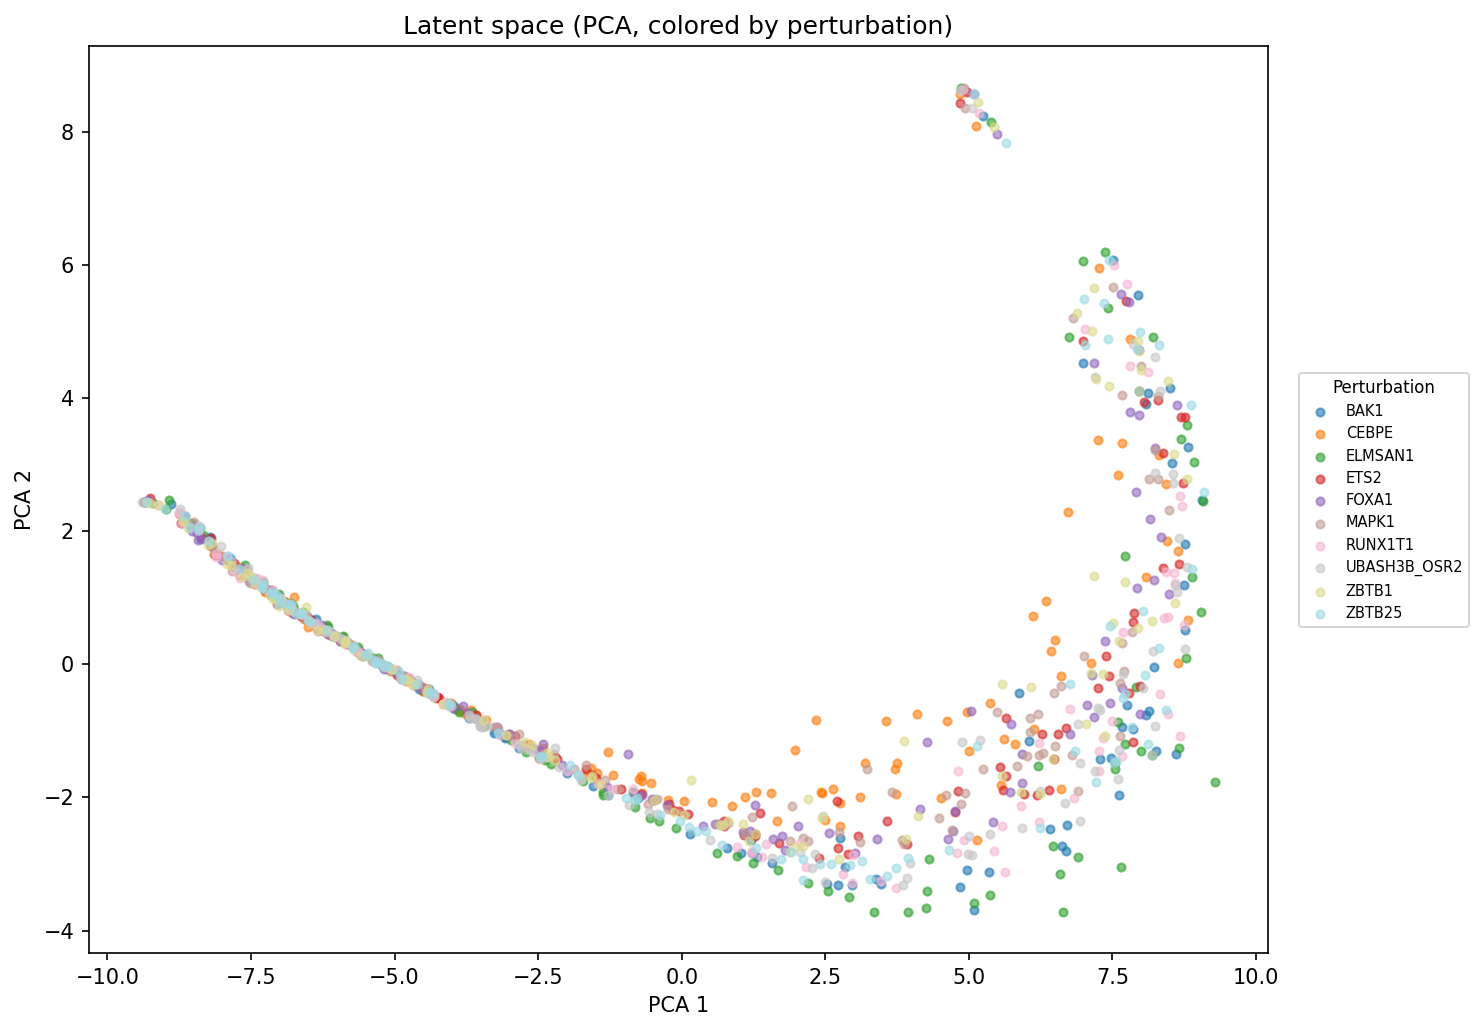
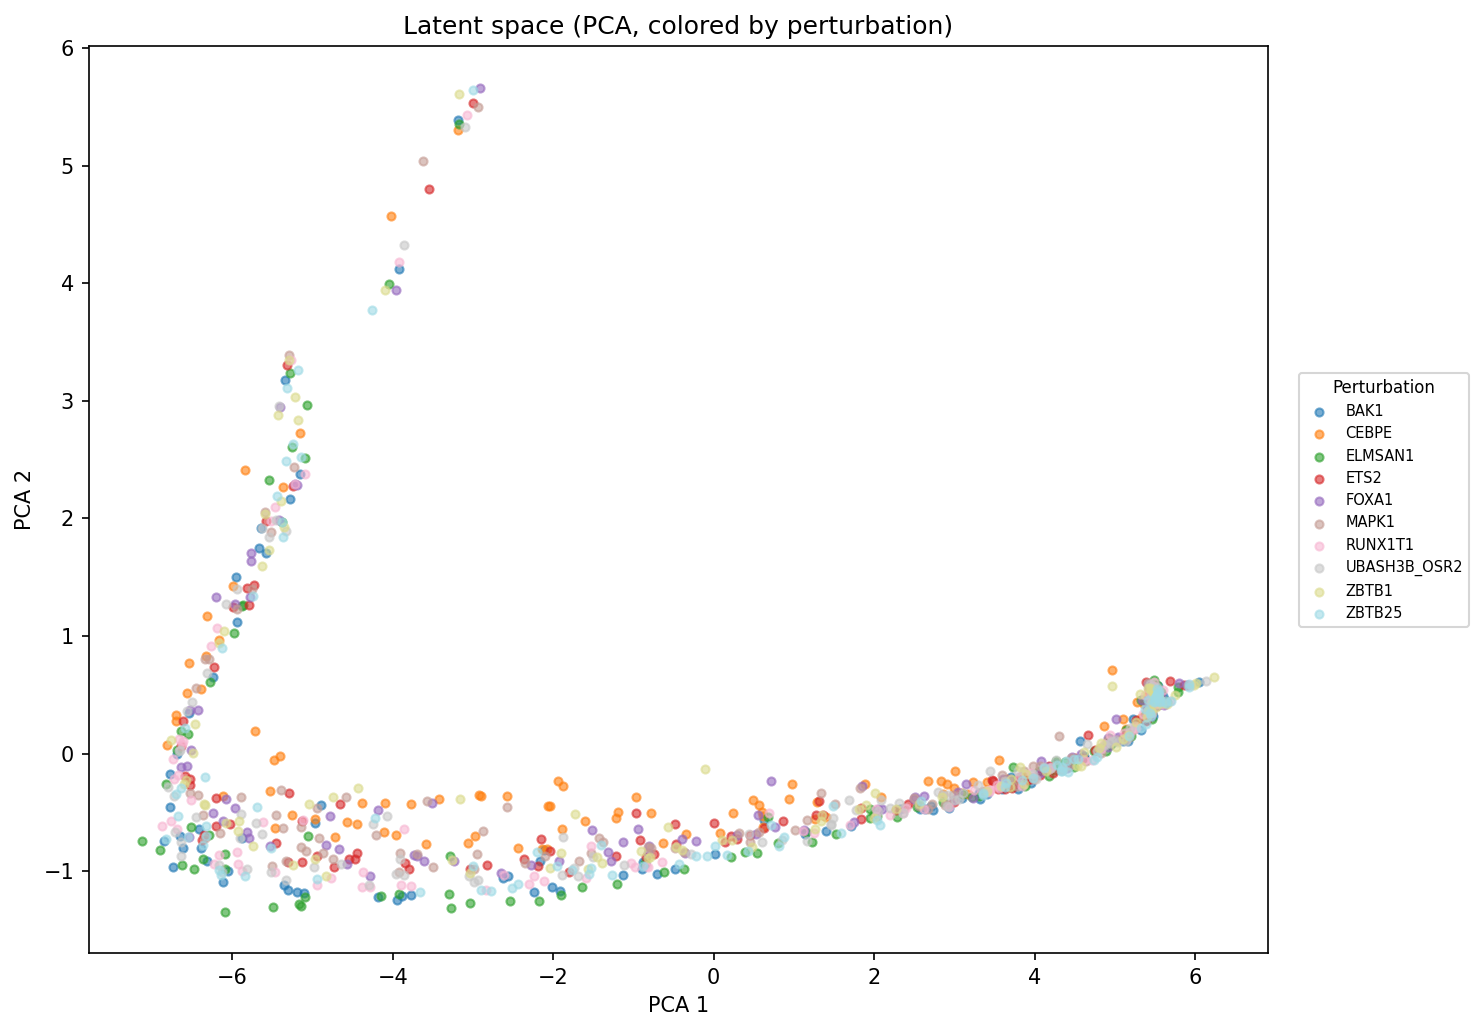
[autoresearch] MLP decoder + tail-weighted Cramer + density matching — val_kl=0.000251, 24/24 active dims
Key changes from ConvTranspose baseline:
- MLP decoder (3-layer, 256 hidden) replaces ConvTranspose for better
  flexibility on zero-inflated distributions
- Tail-weighted Cramer loss (2x weight on top 20% quantiles)
- Cramer + 0.1*density_matching combined loss
- Latent dim 16->24, cosine LR scheduler
- Histogram plots with perturbation/gene labels via dist_vae.eval

diff --git a/autoresearch/train.py b/autoresearch/train.py
@@ -44,7 +44,7 @@ from prepare import (
 # HYPERPARAMETERS — feel free to modify
 # ============================================================================
 
-LATENT_DIM = 16
+LATENT_DIM = 24
 HIDDEN_DIM = 256
 BETA = 0.00005           # KL weight (lower to let recon dominate)
 BETA_WARMUP_EPOCHS = 30  # Linear warmup from 0 to BETA
@@ -55,6 +55,7 @@ GRAD_CLIP = 1.0
 BATCH_SIZE = 256
 SEED = 42
 DENSITY_WEIGHT = 0.1     # Weight for density matching loss (targets KL metric)
+TAIL_WEIGHT = 2.0        # Extra weight on tail quantiles (top 20%)
 
 # ============================================================================
 # LOSS FUNCTIONS — feel free to modify or add new ones
@@ -64,6 +65,24 @@ DENSITY_WEIGHT = 0.1     # Weight for density matching loss (targets KL metric)
 def cramer_distance(sorted_x: torch.Tensor, sorted_y: torch.Tensor) -> torch.Tensor:
     """Cramer distance: MSE between quantile grids. Shape: (batch,)."""
     return torch.mean((sorted_x - sorted_y) ** 2, dim=-1)
+
+
+def tail_weighted_cramer(
+    sorted_x: torch.Tensor, sorted_y: torch.Tensor, tail_weight: float = 2.0
+) -> torch.Tensor:
+    """Cramer distance with extra weight on tail quantiles (top 20%).
+
+    Zero-inflated distributions have most quantile positions near 0.
+    The informative tail structure lives in the upper quantiles, so we
+    up-weight those positions to force the model to reconstruct the tail.
+    """
+    n = sorted_x.shape[-1]
+    weights = torch.ones(n, device=sorted_x.device)
+    tail_start = int(0.8 * n)
+    weights[tail_start:] = tail_weight
+    weights = weights / weights.mean()  # normalize so total weight is unchanged
+    sq_diff = (sorted_x - sorted_y) ** 2
+    return torch.mean(sq_diff * weights.unsqueeze(0), dim=-1)
 
 
 def wasserstein1_distance(sorted_x: torch.Tensor, sorted_y: torch.Tensor) -> torch.Tensor:
@@ -136,45 +155,32 @@ class DistributionEncoder(nn.Module):
 
 
 class DistributionDecoder(nn.Module):
-    """1D CNN decoder with residual block + monotonicity enforcement: z -> quantile grid."""
+    """MLP decoder with monotonicity via cumsum(softplus): z -> quantile grid.
+
+    Uses a deep MLP instead of ConvTranspose to give full flexibility over all
+    256 output positions — critical for zero-inflated distributions that need
+    many near-zero deltas followed by a sharp rise.
+    """
 
     def __init__(self, grid_size: int, latent_dim: int, hidden_dim: int) -> None:
         super().__init__()
         self.grid_size = grid_size
-        self.hidden_dim = hidden_dim
-        self.initial_length = 8
-        c1, c2 = hidden_dim // 2, hidden_dim // 4
 
-        self.fc = nn.Linear(latent_dim, hidden_dim * self.initial_length)
-        self.bn_fc = nn.BatchNorm1d(hidden_dim)
-
-        self.deconv1 = nn.ConvTranspose1d(hidden_dim, c1, kernel_size=4, stride=2, padding=1)
-        self.bn1 = nn.BatchNorm1d(c1)
-        self.deconv2 = nn.ConvTranspose1d(c1, c2, kernel_size=4, stride=2, padding=1)
-        self.bn2 = nn.BatchNorm1d(c2)
-
-        # Residual refinement at c2 channels
-        self.res_conv1 = nn.Conv1d(c2, c2, kernel_size=3, padding=1)
-        self.res_bn1 = nn.BatchNorm1d(c2)
-        self.res_conv2 = nn.Conv1d(c2, c2, kernel_size=3, padding=1)
-        self.res_bn2 = nn.BatchNorm1d(c2)
-
-        self.deconv3 = nn.ConvTranspose1d(c2, 1, kernel_size=4, stride=2, padding=1)
+        self.mlp = nn.Sequential(
+            nn.Linear(latent_dim, hidden_dim),
+            nn.BatchNorm1d(hidden_dim),
+            nn.GELU(),
+            nn.Linear(hidden_dim, hidden_dim),
+            nn.BatchNorm1d(hidden_dim),
+            nn.GELU(),
+            nn.Linear(hidden_dim, hidden_dim),
+            nn.BatchNorm1d(hidden_dim),
+            nn.GELU(),
+            nn.Linear(hidden_dim, grid_size),
+        )
 
     def forward(self, z: torch.Tensor) -> torch.Tensor:
-        h = self.fc(z).view(-1, self.hidden_dim, self.initial_length)
-        h = F.gelu(self.bn_fc(h))
-        h = F.gelu(self.bn1(self.deconv1(h)))
-        h = F.gelu(self.bn2(self.deconv2(h)))
-        # Residual block
-        r = F.gelu(self.res_bn1(self.res_conv1(h)))
-        h = h + self.res_bn2(self.res_conv2(r))
-        h = F.gelu(h)
-        h = self.deconv3(h).squeeze(1)
-        if h.shape[-1] != self.grid_size:
-            h = F.interpolate(
-                h.unsqueeze(1), size=self.grid_size, mode="linear", align_corners=True
-            ).squeeze(1)
+        h = self.mlp(z)
         # Enforce monotonicity: start + cumsum(softplus(deltas))
         start = h[:, :1]
         deltas = F.softplus(h[:, 1:])
@@ -221,8 +227,8 @@ class DistributionVAE(nn.Module):
         mu: torch.Tensor,
         logvar: torch.Tensor,
     ) -> dict[str, torch.Tensor]:
-        # Reconstruction loss: Cramer (pointwise) + density matching (targets KL metric)
-        cramer = cramer_distance(input_grid, recon).mean()
+        # Reconstruction loss: tail-weighted Cramer + density matching (targets KL metric)
+        cramer = tail_weighted_cramer(input_grid, recon, tail_weight=TAIL_WEIGHT).mean()
         density = density_matching_loss(input_grid, recon).mean()
         recon_loss = cramer + DENSITY_WEIGHT * density
 
